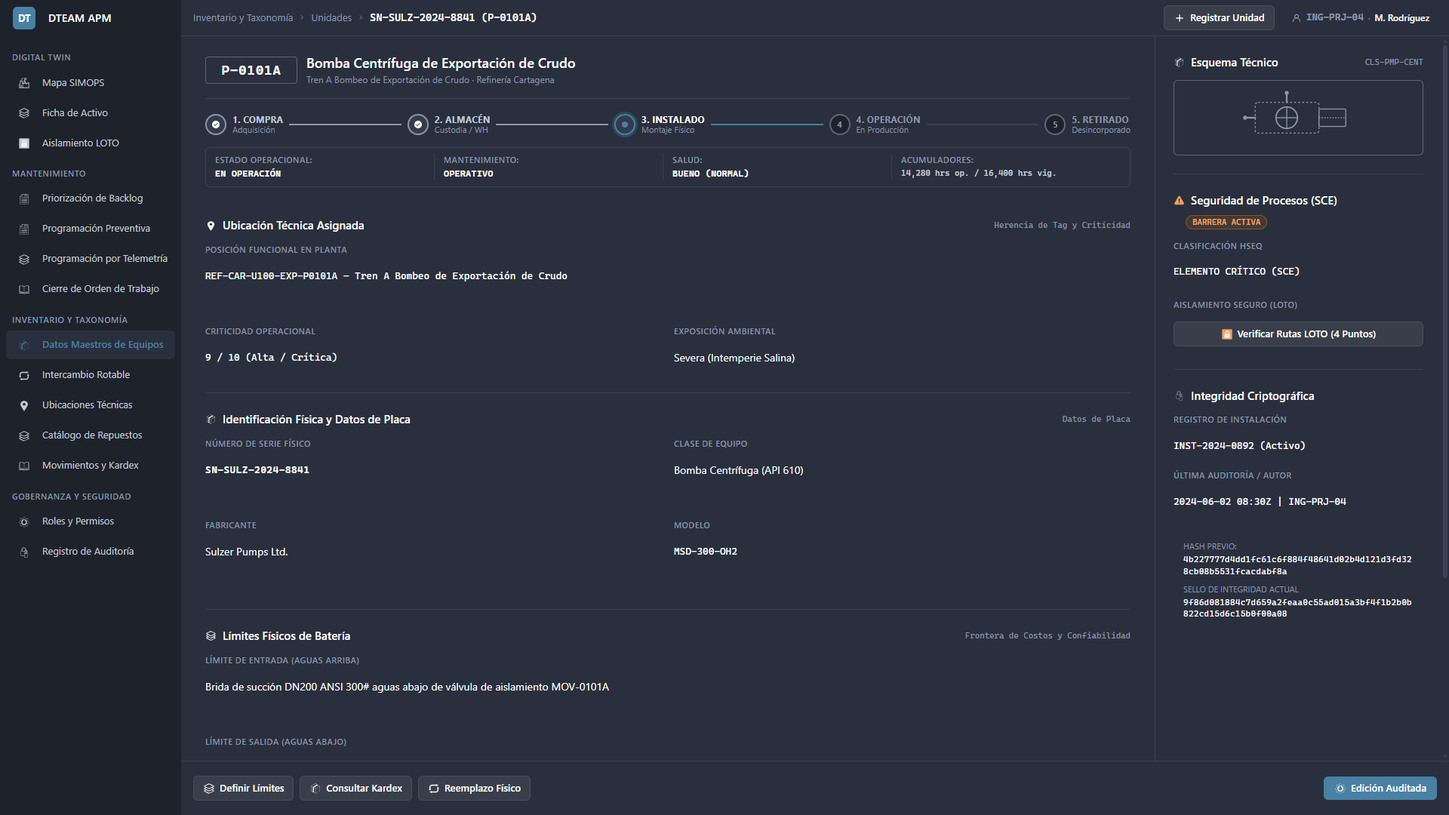
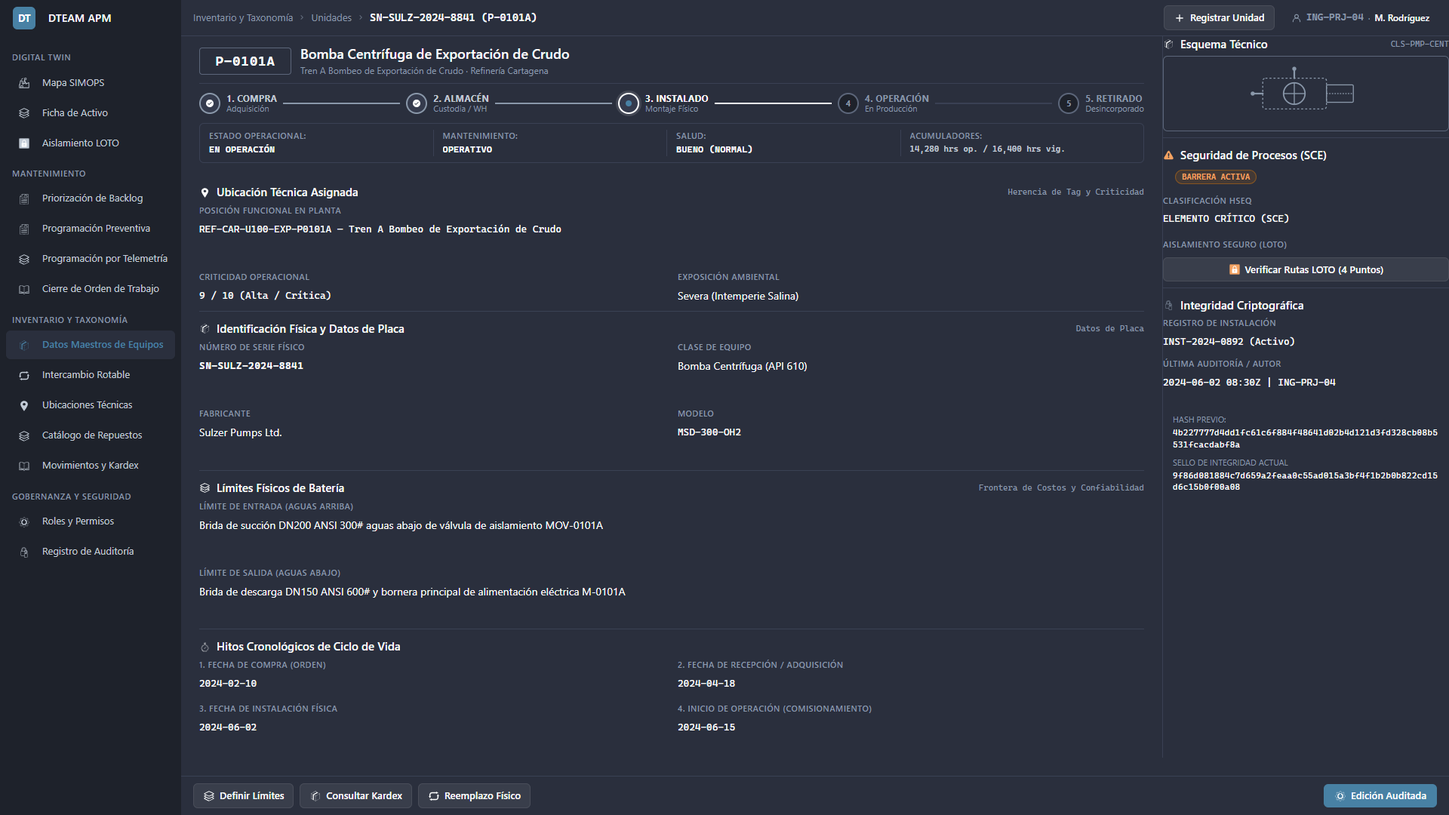
docs(ui-ux): align SCR-INV-005 spec and visual artifact with auditor recommendations

diff --git a/ui-ux/screens/inv/SCR-INV-005.md b/ui-ux/screens/inv/SCR-INV-005.md
@@ -27,7 +27,7 @@ status: Stable
 ## 1. Purpose and Operational Context
 
 * **View Objective:** Consolidated ISO 14224 Level 6 Equipment Unit technical master card and digital onboarding interface. Supports two operational modalities within a unified view architecture:
-  1. **Inspection & Audited Governance Mode (View Mode):** Presents the authoritative technical record of an existing physical machine, including nameplate identification, inherited Level 5 Functional Location tag and operational criticality (or warehouse custody when in storage), four-dimensional status indicators, Safety Critical Element (SCE) designation, physical battery limits, lifecycle chronological milestones, active installation timeline, and cryptographic audit history. Exposes contextual navigation handoffs for boundary definition ([SCR-MTTO-029](../mtto/SCR-MTTO-029.md)), spare parts Kardex ledger inspection ([SCR-INV-006](SCR-INV-006.md)), and rotable physical replacement ([SCR-INV-025](SCR-INV-025.md)).
+  1. **Inspection & Audited Governance Mode (View Mode):** Presents the authoritative technical record of an existing physical machine, including nameplate identification, inherited Level 5 Functional Location tag and operational criticality (or warehouse custody when in storage), the five-stage lifecycle stepper and operational telemetry strip, Safety Critical Element (SCE) designation, physical battery limits, lifecycle chronological milestones, active installation timeline, and cryptographic audit history. Exposes contextual navigation handoffs for boundary definition ([SCR-MTTO-029](../mtto/SCR-MTTO-029.md)), spare parts Kardex ledger inspection ([SCR-INV-006](SCR-INV-006.md)), and rotable physical replacement ([SCR-INV-025](SCR-INV-025.md)).
   2. **Master Record Registration Mode (Onboarding Mode):** Enables formal onboarding of a new serialized Equipment Unit into the master catalog, enforcing global Serial Number uniqueness, hierarchical Level 5 Functional Location linkage with single-equipment occupancy verification, physical battery limit capture, ISO 45001 Safety Critical Element attestation, and four-milestone chronological progression validation within an atomic, cryptographically audited transaction.
 * **Primary Target Persona:** Project Engineer and Reliability Engineer formalizing new machinery acquisitions, auditing nameplate parameters, verifying physical battery limits, and governing reliability master data in compliance with ISO 14224 and ISO 55001.
 * **Secondary Personas:**
@@ -43,7 +43,7 @@ status: Stable
 
 ![SCR-INV-005 Equipment Master Data Card Screenshot](assets/SCR-INV-005-screenshot.png)
 
-> *Note: Production UI prototype capture illustrating the Equipment Master Data Card layout, collapsible navigation sidebar, contextual Level 3 handoff toolbar, four-dimensional status strip, inherited Functional Location linkage, nameplate and physical boundary cards, chronological milestone timeline validator, SCE safety governance card, and chained SHA-256 cryptographic audit strip.*
+> *Note: Production UI prototype capture illustrating the Equipment Master Data Card layout, collapsible navigation sidebar, contextual Level 3 handoff toolbar, the five-stage lifecycle stepper and operational telemetry strip, inherited Functional Location linkage, nameplate and physical boundary cards, chronological milestone timeline validator, SCE safety governance card, and chained SHA-256 cryptographic audit strip.*
 
 ---
 
@@ -57,8 +57,8 @@ status: Stable
 | `CMP-02` | Master Card Header & Mode Switcher | Integrated breadcrumb dropdown selector, mobile menu trigger, user session badge, and workstation action button | Surface: `--dt-color-surface-card`<br>Border: `--dt-color-border-hairline`<br>Typography: `--dt-font-h1` | Integrates the catalog unit selector directly into the active breadcrumb segment using a text-link popover menu pattern on the left, and hosts the onboarding mode switcher and operator session badge on the right. Detailed in §5.1, §5.2, and §8. |
 | `CMP-03` | Master Asset Headline & Title Block | Master asset tag, process description, and plant hierarchy context | Surface: `--dt-color-surface-card`<br>Border: `--dt-color-border-hairline`<br>Typography: `--dt-font-h2`, `--dt-font-caption` | Renders the operational asset tag and hierarchy metadata within the unified top header sheet. Fused with `CMP-04` and separated by an internal hairline, keeping the header clean and uncluttered by relocating action buttons to permanent footer `CMP-12`. Detailed in §5.1 and §5.2. |
 | `CMP-04` | Sequential Lifecycle Stepper & Telemetry Strip | Five-stage lifecycle progression pipeline and compact orthogonal telemetry indicators | Surface: `--dt-color-surface-card`<br>Typography: `--dt-font-caption`, `--dt-font-mono-data` | Renders the sequential lifecycle progression pipeline (Purchase $\to$ Storage $\to$ Installed $\to$ Operational $\to$ Decommissioned) alongside compact orthogonal status telemetry indicators defined in [DT-DM-DOC-001 §2.1](../../../domain-models/class/DT-DM-DOC-001.md#21-state-division-in-equipmentunit) (Operational, Maintenance, Health) and hour accumulators inside the unified top header sheet. Detailed in §5.1 and §6. |
-| `CMP-05` | Functional Location Linkage Card | Hierarchical Level 5 location selector, storage custody, and inherited process metadata | Surface: `--dt-color-surface-card`<br>Border: `--dt-color-border-subtle`<br>Typography: `--dt-font-mono-data` | Links the Level 6 Equipment Unit to an ISO 14224 Level 5 Functional Location or displays active warehouse custody when in storage. Displays inherited process Tag Number, operational criticality, and environmental exposure in uniform Key-Left / Value-Right structure across both inspection and onboarding modes within the continuous datasheet. Detailed in §5.3.3. |
-| `CMP-06` | Nameplate & Taxonomic Identity Card | Physical identification and ISO 14224 class specification fields | Surface: `--dt-color-surface-card`<br>Border: `--dt-color-border-subtle`<br>Text: `--dt-color-text-primary`, `--dt-color-text-muted` | Captures and displays Serial Number (with optical barcode scan trigger on tablet), Manufacturer, Model, and Equipment Class within the continuous engineering datasheet. Detailed in §5.3.1. |
+| `CMP-05` | Functional Location Linkage Card | Hierarchical Level 5 location selector, storage custody, and inherited process metadata | Surface: `--dt-color-surface-card`<br>Border: `--dt-color-border-subtle`<br>Typography: `--dt-font-mono-data` | Links the Level 6 Equipment Unit to an ISO 14224 Level 5 Functional Location or displays active warehouse custody when in storage. Displays inherited process Tag Number, operational criticality, and environmental exposure in a two-column modular grid (uppercase label stacked above value) across both inspection and onboarding modes within the continuous datasheet. Detailed in §5.3.3. |
+| `CMP-06` | Nameplate & Taxonomic Identity Card | Physical identification and ISO 14224 class specification fields | Surface: `--dt-color-surface-card`<br>Border: `--dt-color-border-subtle`<br>Text: `--dt-color-text-primary`, `--dt-color-text-muted` | Captures and displays Serial Number (with optical barcode scan trigger on tablet), Manufacturer, Model, and Equipment Class in a two-column modular grid (uppercase label stacked above value) within the continuous engineering datasheet, complemented by the adjacent Technical Schematic preview card (Esquema Técnico) in the right-hand governance rail. Detailed in §5.3.1. |
 | `CMP-07` | Physical Battery Limits Card | Upstream and downstream mechanical/electrical boundary definitions | Surface: `--dt-color-surface-card`<br>Border: `--dt-color-border-subtle`<br>Typography: `--dt-font-body-md` | Captures `BoundaryStart` (inlet/suction/supply interface) and `BoundaryEnd` (outlet/discharge/load interface) per ISO 14224 Section 6. Links to detailed sub-tree decomposition in [SCR-MTTO-029](../mtto/SCR-MTTO-029.md). Detailed in §5.3.1. |
 | `CMP-08` | Safety Critical Element (SCE) Governance Card | ISO 45001 safety barrier badge and attestation banner | Surface: `--dt-color-surface-card`<br>Border: `--dt-color-border-subtle` | Controls the `IsSce` safety designation, LOTO isolation route verification handoff ([SCR-VIS-011](../vis/SCR-VIS-011.md)), and the ISO 45001 safety barrier attestation guard during registration and audited edits. Detailed in §4 and §5.3.4. |
 | `CMP-09` | Chronological Milestones & Sequence Validator | Four-stage lifecycle date inputs, decommissioning metadata, and progression timeline | Surface: `--dt-color-surface-card`<br>Border: `--dt-color-border-subtle`<br>Timeline: `--dt-color-text-muted`, `--dt-color-border-panel` | Captures and visualizes `PurchaseDate`, `AcquisitionDate`, `InstallationDate`, and `OperationStartDate` along a four-stage lifecycle progression bar. Detailed in §5.3.2. |
@@ -120,8 +120,12 @@ sequenceDiagram
 1. **Dual-Context Initialization:**
    * When invoked with an existing `EquipmentUnitId` or `FunctionalLocationId` (from [SCR-INV-027](SCR-INV-027.md) or [SCR-VIS-033](../vis/SCR-VIS-033.md)), the view initializes in **Inspection Mode**, loading `EquipmentUnitMasterCardDto` (§7.2.3) alongside its active installation timeline and latest SHA-256 audit entry.
    * When invoked with `InitialMode = MasterCardMode.Create` (or when clicking `[+ Register Equipment Unit]`), the view transitions to **Onboarding Mode**, binding an empty `RegisterEquipmentUnitCommand` form context and previewing the initial four-dimensional commissioning states (`EquipmentLifecycleStatus`, `EquipmentOperationalStatus`, `EquipmentMaintenanceStatus`, `EquipmentHealthStatus` defined in §7.2.3).
-2. **Four-Dimensional Status Split ([DT-DM-DOC-001 §2.1](../../../domain-models/class/DT-DM-DOC-001.md#21-state-division-in-equipmentunit)):**
-   * Rather than overloading a single status field, `CMP-04` renders four orthogonal status indicators with single-line uppercase category headers (`LIFECYCLE`, `OPERATIONAL STATUS`, `MAINTENANCE`, `HEALTH`, `ACCUMULATORS`).
+2. **Lifecycle Stepper & Four-Dimension Telemetry Split ([DT-DM-DOC-001 §2.1](../../../domain-models/class/DT-DM-DOC-001.md#21-state-division-in-equipmentunit)):**
+   * Rather than overloading a single generic status field, `CMP-04` separates state into an upper five-stage sequential lifecycle stepper (Purchase $\to$ Storage $\to$ Installed $\to$ Operational $\to$ Decommissioned) and a lower four-column telemetry strip:
+     * **Operational Status (`OperationalStatus`):** `Operating`, `Standby`, `Shutdown`, `Isolated` (LOTO).
+     * **Maintenance Status (`MaintenanceStatus`):** `Available`, `ScheduledDowntime`, `UnscheduledDowntime`, `UnderRepair`.
+     * **Health Status (`HealthStatus`):** `Healthy`, `Advisory`, `Degraded`, `CriticalFault` (mapped to ISA-101 alarm tokens).
+     * **Accumulators:** Monospaced (`--dt-font-mono-data`) operating hours (`TotalRunHours`) and surveillance hours (`SurveillanceHours`).
    * To enforce the Anti-Badge-Inflation Principle ([DT-UI-DS-DOC-001 §6.5](../../DT-UI-DS-DOC-001.md#65-status-badge-counter-discipline-anti-badge-inflation-principle)), normal baseline states (`EquipmentLifecycleStatus.Installed`, `EquipmentLifecycleStatus.InStorage`, `EquipmentLifecycleStatus.Decommissioned`, `EquipmentOperationalStatus.Up`, `EquipmentOperationalStatus.Standby`, `EquipmentMaintenanceStatus.Operational`, `EquipmentHealthStatus.Good`, and `EquipmentHealthStatus.Undetermined`) render as structured bold monospace text (`--dt-font-mono-data`, `--dt-color-text-primary`) without capsule borders.
    * Capsule pills with redundant glyphs and borders are reserved exclusively for anomalous, transitional, or degraded states (`EquipmentLifecycleStatus.Commissioning`, `EquipmentMaintenanceStatus.UnderMaintenance`, `EquipmentMaintenanceStatus.UnderTest`, `EquipmentHealthStatus.Fair`, `EquipmentHealthStatus.SeriousButStable`, and `EquipmentHealthStatus.Serious` binding to `--dt-color-alarm-warning`; `EquipmentOperationalStatus.Down`, `EquipmentHealthStatus.CriticalButStable`, and `EquipmentHealthStatus.Critical` binding to `--dt-color-alarm-critical`).
 
@@ -133,9 +137,9 @@ sequenceDiagram
    * **Desktop Workstation:** Supports rapid keyboard form traversal (`Tab` / `Shift + Tab`), `Ctrl + K` global search invocation, and single-click switching between catalog records.
    * **Industrial Tablet:** Enforces gloved touch target minimums (`--dt-touch-target-mobile`) across all interactive buttons, catalog selectors, date pickers, location selectors, SCE attestation checkboxes, the off-canvas navigation drawer trigger in `CMP-02`, and the optical barcode scanner trigger in `CMP-06`.
 2. **Layout Shift Invariants & Ergonomic Form Containment:**
-   * **Width Containment (`--dt-layout-form-max-width`):** The entire master datasheet container is strictly constrained to `--dt-layout-form-max-width` (centered in the workspace, matching [SCR-MTTO-002](../mtto/SCR-MTTO-002.md)), preventing label-to-value dispersion and excessive horizontal scanning on ultra-wide desktop monitors.
+   * **Width Containment & Spatial Grid:** The master datasheet workspace uses an asymmetric two-column desktop split governed by `--dt-space-6` outer padding and `--dt-space-6` column gap, pairing the primary technical specification canvas on the left with the governance and schematic rail on the right (collapsing to `--dt-layout-form-max-width` in single-column portrait viewports), preventing label-to-value dispersion and excessive horizontal scanning on ultra-wide desktop monitors.
    * **Cumulative Layout Shift Elimination (`CLS = 0`):** Dynamic top alert banners that push the form or datasheet downward are strictly eliminated. All validation messages, conflict alerts, and resolution triggers (`AF-001` through `AF-005`) are housed within pre-allocated, permanent layout spaces: inline under the affected controls (inline validation diagnostic feedback) and within the permanent validation status slot on the left side of sticky footer `CMP-12`.
-   * **Container Clamping:** Status pills in `CMP-04` and inherited location metadata slots in `CMP-05` enforce fixed minimum container heights (`--dt-control-height-md` on desktop, `--dt-control-height-lg` on tablet) to prevent vertical layout jitter.
+   * **Container Clamping:** Status pills in the lifecycle stepper and four-column telemetry strip (`CMP-04`) and inherited location metadata slots in `CMP-05` enforce fixed minimum container heights (`--dt-control-height-md` on desktop, `--dt-control-height-lg` on tablet) to prevent vertical layout jitter.
 3. **Contextual Level 3 Handoff Transitions in Permanent Footer ([DT-UI-NAV-DOC-001 §5](../../DT-UI-NAV-DOC-001.md#5-transition-matrix-and-access-control-rbac)):**
    * All primary Level 3 navigation triggers are hosted on the left side of the permanent sticky bottom footer (`CMP-12`), keeping the top asset header sheet completely unburdened:
      * **Define Boundaries (`CMP-12`):** Navigates to [SCR-MTTO-029](../mtto/SCR-MTTO-029.md) (`L3` $\to$ `L3`) passing `EquipmentUnitId` to configure ISO 14224 Level 7 Subunits and Level 8 Maintainable Items within the physical battery limits.
@@ -146,10 +150,10 @@ sequenceDiagram
    * The catalog unit selector is embedded directly as an active breadcrumb segment (`CMP-02`) using a seamless text-link pattern (pure text with color transition on hover and underline when selected/open, opening a flat popover menu styled with design tokens without shadow elevation, removing redundant header dropdowns and reserving header controls strictly for primary navigation (`[+ Register Equipment Unit]` or `[< Back to Card]`) and user identity.
    * To prevent "Card Overload" (*Bento-Box Fatigue*), `CMP-03` and `CMP-04` are fused into a single unified top header sheet (`--dt-color-surface-card`, outer border with `--dt-color-border-subtle`). `CMP-04` features a tactile five-stage sequential lifecycle stepper (Purchase $\to$ Storage $\to$ Installed $\to$ Operational $\to$ Decommissioned) and a compact four-metric orthogonal telemetry strip (Operational, Maintenance, Health score, and Operating Hours).
    * **Asymmetric 70/30 Workstation Layout:** To optimize workstation screen real estate on desktop displays and prevent dead lateral margins, the interface is organized into a dual-pane asymmetric layout:
-     * **Primary Technical Pane (~70%):** Hosts the asset header sheet (`CMP-03`/`CMP-04`), Functional Location Linkage (`CMP-05`), Physical Identification (`CMP-06`), Battery Limits (`CMP-07`), and Chronological Milestones (`CMP-09`) organized in modular cards with a modern 2-column or 3-column key-value grid.
-     * **Governance & Integrity Rail (~30%):** Positioned along the right side, hosts the technical schematic blueprint preview, Process Safety SCE card (`CMP-08`), Chained SHA-256 Cryptographic seal (`CMP-11`), and contextual action shortcuts (`[Rotable Swap]`, `[Kardex Ledger]`, `[Physical Boundaries]`).
-   * **Modular Key-Value Grid & Soft-Surface Form Controls:** Data within each modular card is organized into distinct key-value items with the label on top in `--dt-font-caption` muted text and the value on bottom in `--dt-font-body-md` / `--dt-font-mono-data` high-contrast text. In Onboarding and Audited Edit mode, editable values seamlessly transition into soft-surface controls (`--dt-color-surface-card` or subtle surface background, `--dt-color-border-panel`, `--dt-radius-md`) with standard control height (`--dt-layout-table-row-height`), maintaining vertical rhythm with zero layout shift (`CLS = 0`).
-   * **Standardized Custom Popover Dropdowns & Date Pickers:** Form selectors for Functional Location (`CMP-05`), Equipment Class (`CMP-06`), and SCE Designation (`CMP-08`) use standardized custom Popover Dropdowns matching the breadcrumb selector pattern, maintaining hidden `<select>` elements for programmatic binding. The 4 milestone date pickers in `CMP-09` are standardized with monospace data typography (`--dt-font-mono-data`) and system focus indicators. Permanent helper text is eliminated in normal state and displayed strictly as active contextual feedback upon validation conflict (`AF-001` through `AF-005`).
+     * **Primary Technical Canvas (Left Column, ~70%):** Houses the unified header sheet (CMP-03/CMP-04), Functional Location Linkage (CMP-05), Physical Identification (CMP-06), Physical Battery Limits (CMP-07), and Chronological Milestones (CMP-09) organized in modular cards with a 2-column stacked key-value grid.
+     * **Governance & Schematic Rail (Right Column, ~30%):** Positioned along the right side, houses the technical schematic blueprint preview (Esquema Técnico), Process Safety SCE governance card (CMP-08), and the Chained SHA-256 Cryptographic seal (CMP-11).
+   * **Modular Key-Value Grid & Soft-Surface Form Controls:** Inside the technical cards, fields are organized in a 2-column modular grid with the uppercase metadata label (--dt-font-caption, --dt-color-text-muted) stacked above the primary value (--dt-font-body-md / --dt-font-mono-data, --dt-color-text-primary). In Onboarding and Audited Edit mode, editable values seamlessly transition into soft-surface controls (--dt-color-surface-card or subtle surface background, --dt-color-border-panel, --dt-radius-md) with standard control height (--dt-layout-table-row-height), maintaining vertical rhythm with zero layout shift (CLS = 0). In read-only View mode, attributes render as clean static text or semantic badges without interactive dropdown chevrons or form borders.
+   * **Standardized Custom Popover Dropdowns & Date Pickers:** Form selectors for Functional Location (CMP-05), Equipment Class (CMP-06), and SCE Designation (CMP-08) use standardized custom Popover Dropdowns matching the breadcrumb selector pattern, maintaining hidden select elements for programmatic binding. The 4 milestone date pickers in CMP-09 are standardized with monospace data typography (--dt-font-mono-data) and system focus indicators. Permanent helper text is eliminated in normal state and displayed strictly as active contextual feedback upon validation conflict (AF-001 through AF-005).
 
 ---
 
@@ -167,7 +171,7 @@ sequenceDiagram
 
 #### 5.3.3. Hierarchical Functional Location Linkage & Single-Occupancy Rule (FR-116, AF-004)
 1. In `CMP-05`, the Engineer selects a target Level 5 Functional Location from the hierarchical plant taxonomy (`FunctionalLocationOptionDto`, §7.2.3). In Inspection Mode, if the unit is unmounted in warehouse custody (`EquipmentLifecycleStatus.InStorage`), `CMP-05` displays the assigned `WarehouseName` (`WarehouseId`).
-2. Upon selecting a Functional Location, the UI automatically previews the **inherited** process `TagNumber`, `Criticality` classification, and `EnvironmentalExposure` (mapped to enum `EnvironmentalExposureLevel`, §7.2.3) governed by that Functional Location. In Onboarding Mode, these three inherited attributes retain the identical Key-Left / Value-Right horizontal structure as in Inspection Mode, ensuring consistent visual alignment.
+2. Upon selecting a Functional Location, the UI automatically previews the **inherited** process `TagNumber`, `Criticality` classification, and `EnvironmentalExposure` (mapped to enum `EnvironmentalExposureLevel`, §7.2.3) governed by that Functional Location. In Onboarding Mode, these three inherited attributes retain the identical modular two-column stacked Key-Top / Value-Bottom structure as in Inspection Mode, ensuring consistent visual alignment.
 3. **Single-Occupancy Invariant (`AF-004`):** If the selected Functional Location has `IsCurrentlyOccupied == true` (hosting an active mounted Equipment Unit where `RemovedAtUtc == null`), the system blocks direct mounting, displays the `AF-004` allocation alert (`#icon-ban` + `--dt-color-alarm-critical`) in `CMP-10` inside the sticky footer, and offers a direct trigger to execute a regulated Rotable Asset Swap ([SCR-INV-025](SCR-INV-025.md)) or select an unoccupied Functional Location (`CLS = 0`).
 
 #### 5.3.4. Safety Critical Element (SCE) Attestation Guard (AF-005)
@@ -202,7 +206,7 @@ sequenceDiagram
   * **Prohibition of Green/Teal on Historical Milestones (`CMP-09`):** Completed historical milestones (Purchase, Acquisition, Installation, Operation) represent past baseline facts, not real-time success transactions. Rendered in neutral steel gray (`--dt-color-text-muted`, `--dt-color-border-panel`), reserving amber/red exclusively for chronological inversions (`AF-003`).
   * **SCE Static Classification De-escalation (`CMP-08`):** Safety Critical Element designation is a permanent design characteristic, not an active process alarm. In Inspection Mode, the card border remains neutral (`--dt-color-border-subtle`), preventing alarm fatigue. Attestation checkboxes are strictly restricted to mutation workflows (Onboarding / Audited Edit).
   * **Read-Only Visual Hygiene (`CMP-05` to `CMP-09`):** In Inspection Mode, all mandatory asterisks (`*`) and field underline borders are suppressed, preventing cognitive confusion with active form inputs.
-* **Anti-Badge-Inflation Discipline ([DT-UI-DS-DOC-001 §6.5](../../DT-UI-DS-DOC-001.md#65-status-badge-counter-discipline-anti-badge-inflation-principle)):** Capsule status pills (`--dt-radius-full`) are restricted to the four dynamic status dimensions in `CMP-04`, active SCE safety barrier alerts in `CMP-08`, and live chronological validation feedback during form editing in `CMP-09`. In read-only Inspection Mode, static technical metadata (`SerialNumber`, `Manufacturer`, `Model`, `EquipmentClassName`, `BoundaryStart`, `BoundaryEnd`, `PurchaseDate`, `AcquisitionDate`, `TagNumber`, `Criticality`, non-SCE status, and historical chronology) render strictly as clean Key-Left / Value-Right tabular pairs (matching [SCR-INV-025](SCR-INV-025.md)) using `--dt-color-text-primary` and `--dt-color-text-muted` without input-box borders or decorative pills, eliminating visual competition with interactive buttons (`--dt-radius-md`) and conserving vertical screen estate.
+* **Anti-Badge-Inflation Discipline ([DT-UI-DS-DOC-001 §6.5](../../DT-UI-DS-DOC-001.md#65-status-badge-counter-discipline-anti-badge-inflation-principle)):** Capsule status pills (`--dt-radius-full`) are restricted to the four dynamic status dimensions in `CMP-04`, active SCE safety barrier alerts in `CMP-08`, and live chronological validation feedback during form editing in `CMP-09`. In read-only Inspection Mode, static technical metadata (`SerialNumber`, `Manufacturer`, `Model`, `EquipmentClassName`, `BoundaryStart`, `BoundaryEnd`, `PurchaseDate`, `AcquisitionDate`, `TagNumber`, `Criticality`, non-SCE status, and historical chronology) render strictly as clean stacked Key-Top / Value-Bottom modular field cells (matching [SCR-INV-025](SCR-INV-025.md)) using `--dt-color-text-primary` and `--dt-color-text-muted` without input-box borders or decorative pills, eliminating visual competition with interactive buttons (`--dt-radius-md`) and conserving vertical screen estate.
 * **Typography Hierarchy:** Equipment tags, serial numbers, operating hours, and SHA-256 integrity hashes bind strictly to monospace data and primary text tokens (`--dt-font-mono-data`, `--dt-color-text-primary`). Section headers bind to `--dt-font-h2`, technical descriptions bind to `--dt-font-body-md`, and field labels bind to `--dt-font-caption` in muted slate (`--dt-color-text-muted`).
 * **Interactive Control Neutrality:** Focus rings, active sidebar indicators, and form input borders in dark and light themes bind strictly to neutral tokens (`--dt-color-border-focus`, `--dt-color-text-muted`), avoiding uncodified chromatic accents.
 * **Offline Field Inspection Integrity ([ASR-001](../../../architecture/asr/DT-ARQ-ASR-001.md#1-offline-first-operation-and-partition-tolerance)):** When accessed from a field tablet during wireless dead-zone conditions, the screen transitions cleanly to Diagnostic / Offline Read-Only state (Priority 4 diagnostic banner), serving cached equipment specifications and boundary limits from local encrypted storage (`IOfflineStorage`) while preventing master catalog onboarding conflicts per [DT-UI-NAV-DOC-001 §6.1](../../DT-UI-NAV-DOC-001.md#61-offline-operation-guard).
@@ -219,7 +223,7 @@ Pages/Inventory/
     ├── PortalSidebarNav.razor                         # CMP-01: Collapsible navigation sidebar
     ├── EquipmentMasterHeaderBar.razor                 # CMP-02: Breadcrumbs, catalog switcher & mode toggle
     ├── EquipmentMasterHeadlineCard.razor              # CMP-03: Master asset tag, process description, and plant hierarchy context
-    ├── EquipmentFourDimensionStatusStrip.razor        # CMP-04: 4D status pills & hour accumulators
+    ├── EquipmentLifecycleStepperAndTelemetryStrip.razor        # CMP-04: 5-stage lifecycle stepper & 4-metric telemetry strip
     ├── FunctionalLocationLinkageCard.razor            # CMP-05: L5 location picker & inherited Tag/Criticality
     ├── EquipmentNameplateIdentityCard.razor           # CMP-06: Serial Number, Class, Manufacturer, Model
     ├── PhysicalBatteryLimitsCard.razor                # CMP-07: BoundaryStart & BoundaryEnd specification
@@ -270,7 +274,7 @@ public MasterCardMode InitialMode { get; set; } = MasterCardMode.Inspect;
 [Parameter] public string? HierarchyPath { get; set; }
 [Parameter] public bool IsCommissioningBaseline { get; set; }
 
-// CMP-04: EquipmentFourDimensionStatusStrip.razor
+// CMP-04: EquipmentLifecycleStepperAndTelemetryStrip.razor
 [Parameter, EditorRequired] public required EquipmentLifecycleStatus LifecycleStatus { get; set; }
 [Parameter, EditorRequired] public required EquipmentOperationalStatus OperationalStatus { get; set; }
 [Parameter, EditorRequired] public required EquipmentMaintenanceStatus MaintenanceStatus { get; set; }
@@ -521,7 +525,7 @@ public record RegisterEquipmentUnitCommand(
     bool IsSce,
     bool IsSceAttested,
     Guid FunctionalLocationId,
-    string EngineerUserId,
+    Guid EngineerUserId,
     string PreviousHash
 );
 
@@ -533,7 +537,7 @@ public record UpdateEquipmentMasterRecordCommand(
     bool IsSce,
     bool IsSceAttested,
     string TechnicalJustification,
-    string EngineerUserId,
+    Guid EngineerUserId,
     string PreviousHash
 );
 
@@ -567,7 +571,7 @@ public record EquipmentUnitRegisteredEvent(
 
 | Viewport / Breakpoint | Layout Organization | Ergonomic Rules |
 | :--- | :--- | :--- |
-| **Desktop Workstation**<br>($\ge 1920\text{px}$, `--dt-breakpoint-xl`) | Full Web Portal shell with expanded navigation sidebar (`--dt-layout-sidebar-width-expanded`); workspace organizes into an **asymmetric $70/30$ workstation layout**. The primary technical pane (~70%) hosts the unified header sheet (`CMP-03` asset title + `CMP-04` sequential lifecycle stepper and telemetry strip) and modular technical cards: Functional Location (`CMP-05`), Nameplate Identity (`CMP-06`), Physical Battery Limits (`CMP-07`), and Chronological Milestones (`CMP-09`) in a 2-to-3 column key-value grid. The right-hand governance rail (~30%) hosts the technical schematic blueprint, Process Safety SCE card (`CMP-08`), Cryptographic SHA-256 seal (`CMP-11`), and quick contextual action shortcuts. Lateral inspection drawers dock laterally (`--dt-layout-drawer-width-desktop`). Sticky footer `CMP-12` (`--dt-layout-footer-height`) remains permanently active at bottom. | Optimized for mouse and keyboard navigation; form controls `--dt-control-height-lg`; dense technical typography (`--dt-font-body-md`, `--dt-font-mono-data`); zero horizontal scroll; zero layout shift (`CLS = 0`). |
+| **Desktop Workstation**<br>($\ge 1920\text{px}$, `--dt-breakpoint-xl`) | Full Web Portal shell with expanded navigation sidebar (`--dt-layout-sidebar-width-expanded`); workspace organizes into an **asymmetric $70/30$ workstation layout**. The primary technical pane (~70%) hosts the unified header sheet (`CMP-03` asset title + `CMP-04` sequential lifecycle stepper and telemetry strip) and modular technical cards: Functional Location (`CMP-05`), Nameplate Identity (`CMP-06`), Physical Battery Limits (`CMP-07`), and Chronological Milestones (`CMP-09`) in a 2-to-3 column key-value grid. The right-hand governance rail (~30%) hosts the technical schematic blueprint, Process Safety SCE card (`CMP-08`), Cryptographic SHA-256 seal (`CMP-11`), Lateral inspection drawers dock laterally (`--dt-layout-drawer-width-desktop`). Sticky footer `CMP-12` (`--dt-layout-footer-height`) remains permanently active at bottom. | Optimized for mouse and keyboard navigation; form controls `--dt-control-height-lg`; dense technical typography (`--dt-font-body-md`, `--dt-font-mono-data`); zero horizontal scroll; zero layout shift (`CLS = 0`). |
 | **Industrial Tablet Landscape**<br>($1280\text{px} - 1919\text{px}$, `--dt-breakpoint-lg` / $1280\times 800\text{px}$) | Navigation sidebar collapses to icon-only rail (`--dt-layout-sidebar-width-collapsed`); workspace organizes into a compact two-column split with collapsible right rail (`--dt-layout-drawer-width-tablet`); sequential lifecycle stepper (`CMP-04`) remains horizontally fluid; telemetry strip wraps into a 2x2 grid; technical cards prioritize 2-column key-value pairs; lateral drawers use `--dt-layout-drawer-width-tablet`. Permanent sticky footer `CMP-12` (`--dt-layout-footer-height`) hosts Level 3 handoffs on the left in Inspection Mode, and `CMP-10` validation status slot + commit actions in Onboarding Mode. | Touch targets enforce `--dt-touch-target-mobile` ($\ge 48\times 48\text{px}$); barcode scan button prominently accessible in `CMP-06`; sticky action footer (`--dt-layout-footer-height`) prevents thumb reach strain. |
 | **Industrial Tablet Portrait**<br>($768\text{px} - 1279\text{px}$, `--dt-breakpoint-md` / $800\times 1280\text{px}$) | Single-column vertical stack (`CMP-03` / `CMP-04` $\to$ `CMP-05` $\to$ `CMP-06` $\to$ `CMP-07` $\to$ `CMP-09` $\to$ `CMP-08` $\to$ `CMP-11`) within `--dt-layout-form-max-width` with bottom scroll clearance (`--dt-layout-footer-clearance`); governance and schematic cards flow beneath the technical cards; off-canvas navigation drawer triggered via the `[DT]` brand mark button in `CMP-02` and bottom sheet auxiliary panels (`--dt-layout-bottom-sheet-height-initial`). In `CMP-02`, breadcrumbs collapse ancestor root text to display `Equipment Units › [ Dropdown Selector ▾ ]`, preventing horizontal overflow and accommodating the action button and session badge. | Gloved operation ergonomics with $\ge 48\times 48\text{px}$ touch targets and `--dt-space-2` separation; sticky bottom action footer (`CMP-12`) remains permanently reachable. |
 
